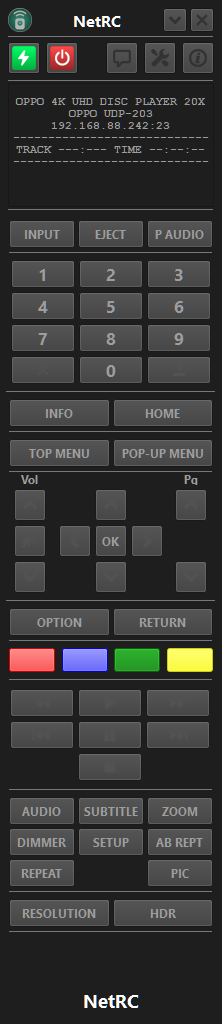
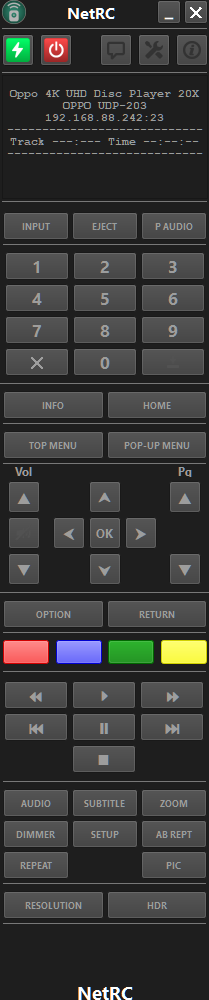
Some changes to default style

diff --git a/src/remotecontrol.cpp b/src/remotecontrol.cpp
@@ -299,7 +299,7 @@ void RemoteControl::addPanel(int panelIdx, const QJsonArray &buttons) {
             if(!title.isEmpty()) {
                 QPushButton *btn = new QPushButton(title);
                 //btn->setFont(fixedFont);
-                btn->setFont(QFont(btn->font().family(), btn->font().pixelSize(), QFont::Bold));
+                btn->setFont(QFont(btn->font().family(), 7, QFont::Bold));
                 btn->setObjectName(QString().asprintf("rc_btn_").append(button.value("btn").toString()));
                 btn->setMinimumWidth(50);
                 btn->setMinimumHeight(28);
@@ -500,7 +500,6 @@ void RemoteControl::enableControls(bool enable)
                 button->setEnabled(enable);
             } else {
                 button->setEnabled(false);
-                button->setStyleSheet("");
             }
         }
     };
